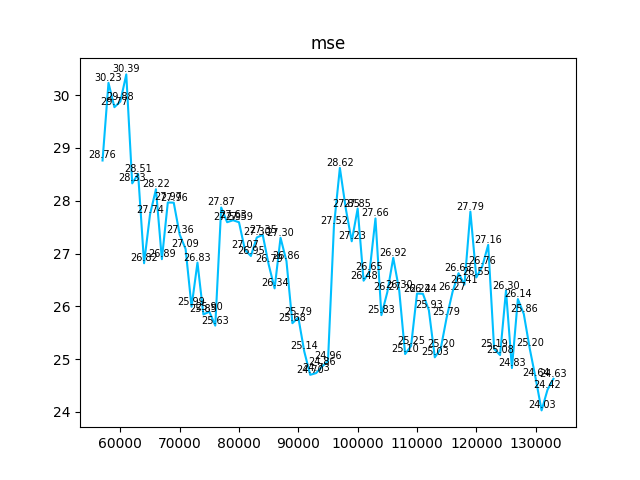
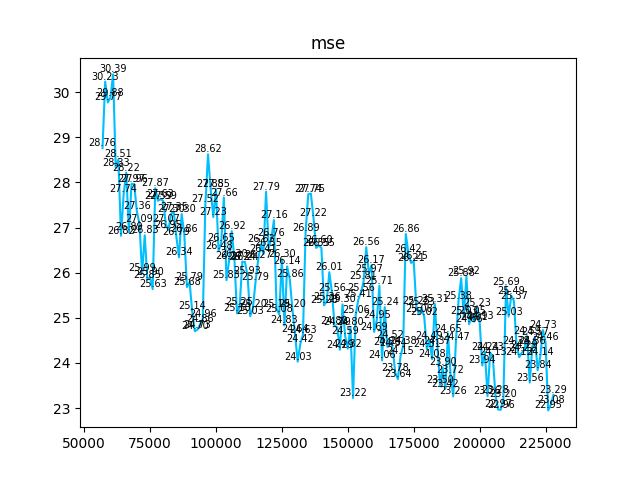
add

diff --git a/ReaderCSVToImage.py b/ReaderCSVToImage.py
@@ -1,10 +1,11 @@
 import csv
 
 from matplotlib import pyplot as plt
-subdir = 'kth_channel_128'
-#subdir = 'threemau_multidim_cross'
-#subdir = 'mulmul_o_3x7'
+#subdir = 'kth_channel_128'
 #subdir = 'kth128'
+subdir = 'threemau_multidim_cross'
+#subdir = 'mulmul_o_3x7'
+
 file = "plot/images/"+subdir+"/result.csv"
 result_file = open(file)  # 打开csv文件
 result_reader = csv.reader(result_file)  # 读取csv文件
